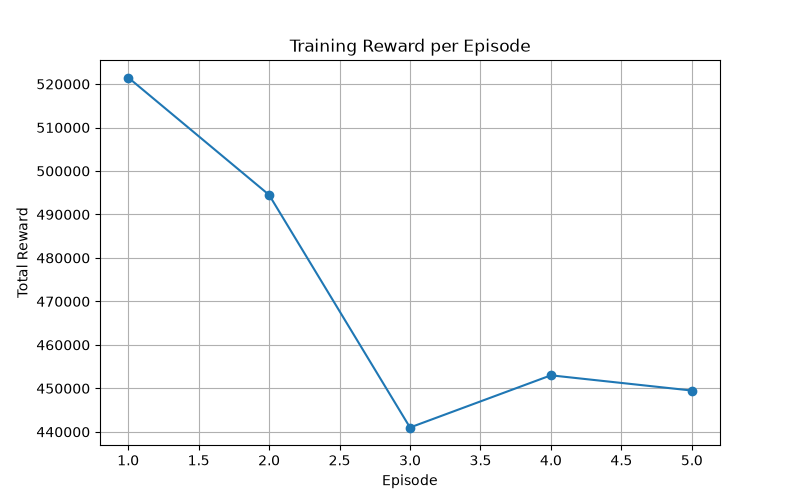
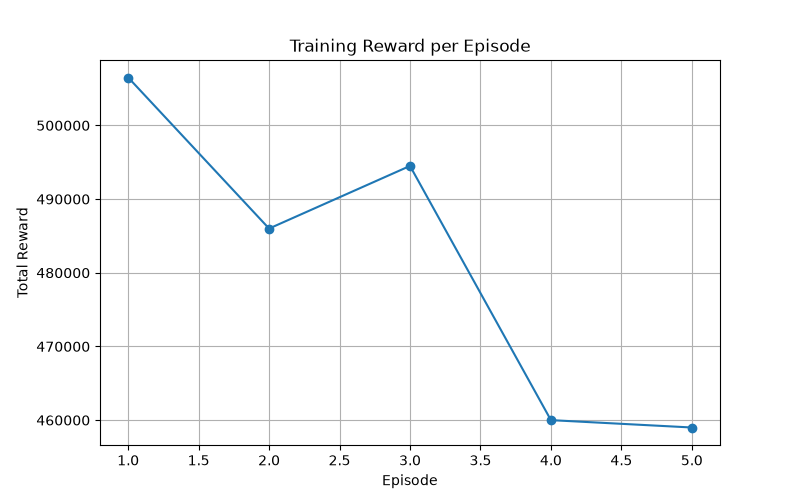
Add interactive training and evaluation controls to dashboard

diff --git a/src/dashboard.py b/src/dashboard.py
@@ -1,3 +1,5 @@
+import subprocess
+import sys
 import streamlit as st
 import pandas as pd
 import os
@@ -153,3 +155,25 @@ elif section == "Evaluation Results":
     else:
 
         st.warning("Evaluation report not found.")
+
+st.subheader("Project Actions")
+
+col1, col2 = st.columns(2)
+
+with col1:
+    if st.button("▶ Train Model", use_container_width=True):
+
+        with st.spinner("Training model..."):
+
+            subprocess.run([sys.executable, "src/train.py"])
+
+        st.success("Training completed successfully!")
+
+with col2:
+    if st.button("📊 Evaluate Model", use_container_width=True):
+
+        with st.spinner("Evaluating model..."):
+
+            subprocess.run([sys.executable, "src/evaluate.py"])
+
+        st.success("Evaluation completed successfully!")
